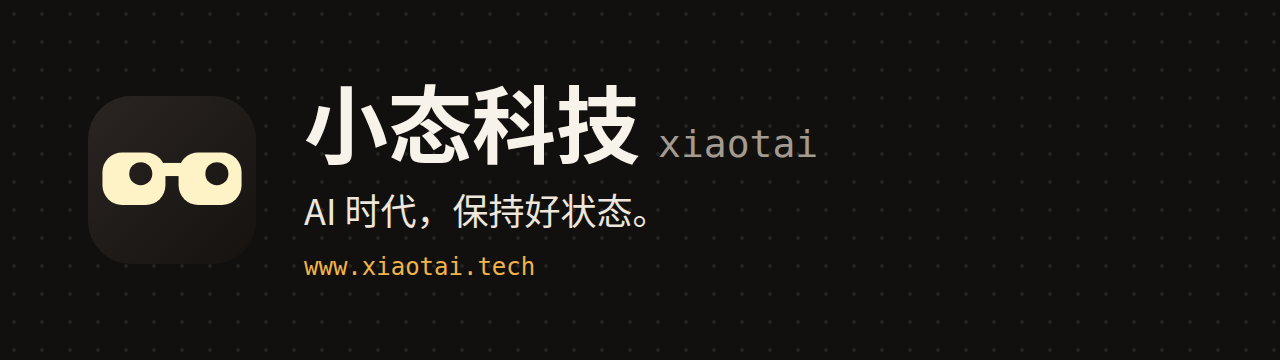
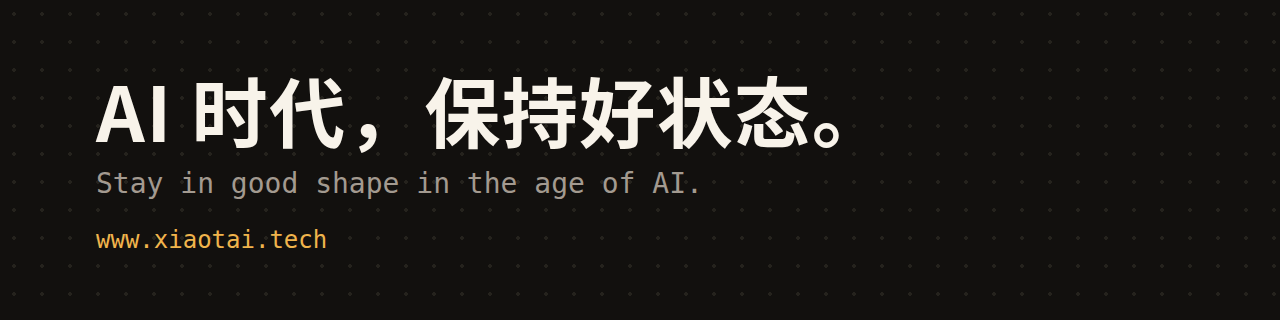
profile: 横幅去掉图标，只留口号；介绍不再重复口号
Claude-Session: https://claude.ai/code/session_011V2XUxzCcTVsaYH5Y8D8eu

Changed region(s): [[0.0625, 0.2188, 0.6562, 0.6562], [0.0625, 0.7188, 0.4375, 0.7812]]

diff --git a/profile/README.md b/profile/README.md
@@ -2,14 +2,14 @@
   <a href="https://www.xiaotai.tech">
     <picture>
       <source media="(prefers-color-scheme: dark)" srcset="banner-dark.png">
-      <img src="banner-light.png" alt="小态科技 xiaotai：AI 时代，保持好状态。" width="100%">
+      <img src="banner-light.png" alt="AI 时代，保持好状态。Stay in good shape in the age of AI." width="100%">
     </picture>
   </a>
 </p>
 
-**小态科技**：AI 时代，保持好状态。老李写了十几年代码，现在看 AI 怎么写；这里放公开的 App 和工具。
+老李写了十几年代码，现在看 AI 怎么写。这里放小态公开的 App 和工具。
 
-*Stay in good shape in the age of AI. Lao Li has written code for 15+ years and now watches how AI writes it. Public apps and tools live here.*
+*Lao Li has written code for 15+ years and now watches how AI writes it. Xiaotai's public apps and tools live here.*
 
 ### 公开项目
 
